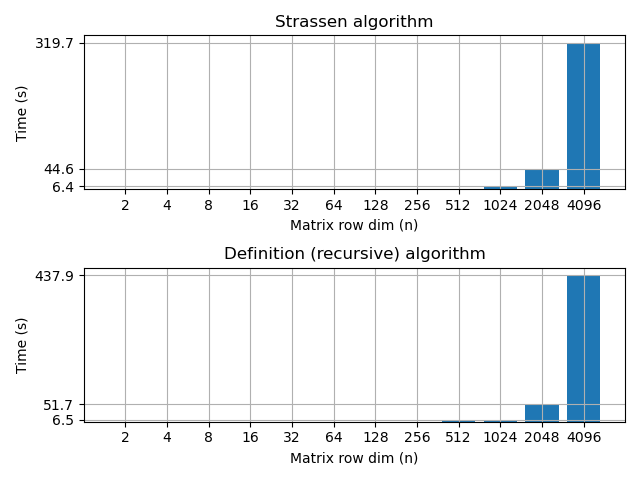
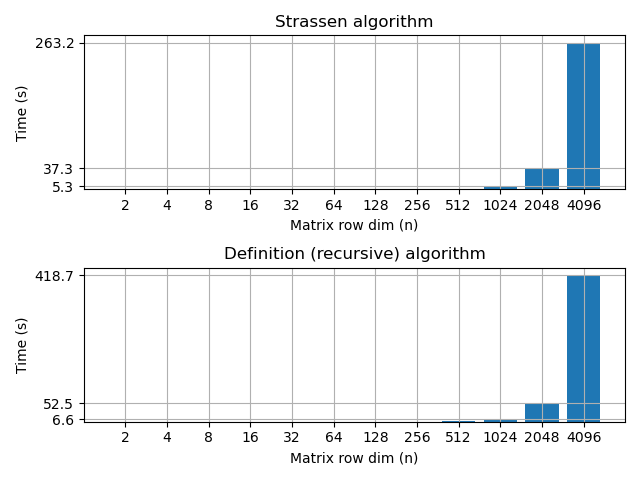
Cleaned up code => better results

diff --git a/strassen_algorithm/matrix_strassen_mul.c b/strassen_algorithm/matrix_strassen_mul.c
@@ -1,7 +1,9 @@
 #include <stdio.h>
 #include <stdlib.h>
 #include <time.h>
+#include <string.h>
 
+// Sub-matrix block.
 struct m_block {
     int col;
     int row;
@@ -10,107 +12,96 @@ struct m_block {
     int* matrix;
 };
 
+// Allocate a matrix.
+struct m_block make_alloc_block(int dim_b) {
+    struct m_block block;
+    block.row = 0;
+    block.col = 0;
+    block.dim_b = block.dim_m = dim_b;
+    block.matrix = (int*) malloc(dim_b * dim_b * sizeof(int));
+    return block;
+}
+
+// Crate a sub-matrix block.
+struct m_block make_block(struct m_block* parent, int row_offset, int col_offset, int dim_b) {
+    struct m_block block;
+    block.matrix = parent->matrix;
+    block.dim_m = parent->dim_m;
+    block.dim_b = dim_b;
+    block.row = parent->row + row_offset;
+    block.col = parent->col + col_offset;
+    return block;
+}
+
 // Iterative sum.
-void sum(struct m_block* a, struct m_block* b, struct m_block* c) {
-    for (int ia = a->row, ib = b->row, ic = c->row; (ia < a->row + a->dim_b) && (ib < b->row + b->dim_b) && (ic < c->row + c->dim_b); ia++, ib++, ic++) {
-        for (int ja = a->col, jb = b->col, jc = c->col; (ja < a->col + a->dim_b) && (jb < b->col + b->dim_b) && (jc < c->col + c->dim_b); ja++, jb++, jc++) {
-            c->matrix[ic * c->dim_m + jc] = a->matrix[ia * a->dim_m + ja] + b->matrix[ib * b->dim_m + jb];
+void sum(struct m_block* restrict a, struct m_block* restrict b, struct m_block* restrict c) {
+    int* pa = &a->matrix[a->row * a->dim_m + a->col];
+    int* pb = &b->matrix[b->row * b->dim_m + b->col];
+    int* pc = &c->matrix[c->row * c->dim_m + c->col];
+    for (int i = 0; i < a->dim_b; ++i) {
+        for (int j = 0; j < a->dim_b; ++j) {
+            *pc = *pa + *pb;
+            ++pa; ++pb; ++pc;
         }
+        pa += a->dim_m - a->dim_b;
+        pb += b->dim_m - b->dim_b;
+        pc += c->dim_m - c->dim_b;
     }
 }
 
 // Iterative sub.
-void sub(struct m_block* a, struct m_block* b, struct m_block* c) {
-    for (int ia = a->row, ib = b->row, ic = c->row; (ia < a->row + a->dim_b) && (ib < b->row + b->dim_b) && (ic < c->row + c->dim_b); ia++, ib++, ic++) {
-        for (int ja = a->col, jb = b->col, jc = c->col; (ja < a->col + a->dim_b) && (jb < b->col + b->dim_b) && (jc < c->col + c->dim_b); ja++, jb++, jc++) {
-            c->matrix[ic * c->dim_m + jc] = a->matrix[ia * a->dim_m + ja] - b->matrix[ib * b->dim_m + jb];
+void sub(struct m_block* restrict a, struct m_block* restrict b, struct m_block* restrict c) {
+    int* pa = &a->matrix[a->row * a->dim_m + a->col];
+    int* pb = &b->matrix[b->row * b->dim_m + b->col];
+    int* pc = &c->matrix[c->row * c->dim_m + c->col];
+    for (int i = 0; i < a->dim_b; ++i) {
+        for (int j = 0; j < a->dim_b; ++j) {
+            *pc = *pa - *pb;
+            ++pa; ++pb; ++pc;
         }
+        pa += a->dim_m - a->dim_b;
+        pb += b->dim_m - b->dim_b;
+        pc += c->dim_m - c->dim_b;
     }
 }
 
 // Recursive multipy matrices C = A * B.
-void smul(struct m_block* A, struct m_block* B, struct m_block* C) {
-    if (A->dim_b == 1 && B->dim_b == 1 && C->dim_b == 1) {
-        C->matrix[C->row * C->dim_m + C->col] = A->matrix[A->row * A->dim_m + A->col] * B->matrix[B->row * B->dim_m + B->col];
+void smul(struct m_block* restrict A, struct m_block* restrict B, struct m_block* restrict C) {
+    if (A->dim_b == 1) {
+        int a_val = A->matrix[A->row * A->dim_m + A->col];
+        int b_val = B->matrix[B->row * B->dim_m + B->col];
+        C->matrix[C->row * C->dim_m + C->col] = a_val * b_val;
         return;
     }
 
-    // Blocks.
-    struct m_block a11, a12, a21, a22;
+    // Blocks size.
+    int half = A->dim_b / 2;
 
-    a11.matrix = A->matrix; a11.dim_m = A->dim_m;
-    a11.dim_b = A->dim_b / 2;
-    a11.row = 0 + A->row; a11.col = 0 + A->col;
+    // Blocks of matrix A.
+    struct m_block a11 = make_block(A, 0,      0,     half);
+    struct m_block a12 = make_block(A, 0,      half,  half);
+    struct m_block a21 = make_block(A, half,   0,     half);
+    struct m_block a22 = make_block(A, half,   half,  half);
 
-    a12.matrix = A->matrix; a12.dim_m = A->dim_m;
-    a12.dim_b = A->dim_b / 2;
-    a12.row = 0 + A->row; a12.col = A->dim_b / 2 + A->col;
+    // Blocks of matrix B.
+    struct m_block b11 = make_block(B, 0,      0,    half);
+    struct m_block b12 = make_block(B, 0,      half, half);
+    struct m_block b21 = make_block(B, half,   0,    half);
+    struct m_block b22 = make_block(B, half,   half, half);
 
-    a21.matrix = A->matrix; a21.dim_m = A->dim_m;
-    a21.dim_b = A->dim_b / 2;
-    a21.row = A->dim_b / 2 + A->row; a21.col = 0 + A->col;
+    // Blocks of matrix C.
+    struct m_block c11 = make_block(C, 0,      0,    half);
+    struct m_block c12 = make_block(C, 0,      half, half);
+    struct m_block c21 = make_block(C, half,   0,    half);
+    struct m_block c22 = make_block(C, half,   half, half);
 
-    a22.matrix = A->matrix; a22.dim_m = A->dim_m;
-    a22.dim_b = A->dim_b / 2;
-    a22.row = A->dim_b / 2 + A->row; a22.col = A->dim_b / 2 + A->col;
+    // Tmp blocks to compute the Strassen's operations.
+    struct m_block a = make_alloc_block(half);
+    struct m_block b = make_alloc_block(half);
+    struct m_block p = make_alloc_block(half);
 
-    struct m_block b11, b12, b21, b22;
-
-    b11.matrix = B->matrix; b11.dim_m = B->dim_m;
-    b11.dim_b = B->dim_b / 2;
-    b11.row = 0 + B->row; b11.col = 0 + B->col;
-
-    b12.matrix = B->matrix; b12.dim_m = B->dim_m;
-    b12.dim_b = B->dim_b / 2;
-    b12.row = 0 + B->row; b12.col = B->dim_b / 2 + B->col;
-
-    b21.matrix = B->matrix; b21.dim_m = B->dim_m;
-    b21.dim_b = B->dim_b / 2;
-    b21.row = B->dim_b / 2 + B->row; b21.col = 0 + B->col;
-
-    b22.matrix = B->matrix; b22.dim_m = B->dim_m;
-    b22.dim_b = B->dim_b / 2;
-    b22.row = B->dim_b / 2 + B->row; b22.col = B->dim_b / 2 + B->col;
-
-    struct m_block c11, c12, c21, c22;
-
-    c11.matrix = C->matrix; c11.dim_m = C->dim_m;
-    c11.dim_b = C->dim_b / 2;
-    c11.row = 0 + C->row; c11.col = 0 + C->col;
-
-    c12.matrix = C->matrix; c12.dim_m = C->dim_m;
-    c12.dim_b = C->dim_b / 2;
-    c12.row = 0 + C->row; c12.col = C->dim_b / 2 + C->col;
-
-    c21.matrix = C->matrix; c21.dim_m = C->dim_m;
-    c21.dim_b = C->dim_b / 2;
-    c21.row = C->dim_b / 2 + C->row; c21.col = 0 + C->col;
-
-    c22.matrix = C->matrix; c22.dim_m = C->dim_m;
-    c22.dim_b = C->dim_b / 2;
-    c22.row = C->dim_b / 2 + C->row; c22.col = C->dim_b / 2 + C->col;
-
-    // Strassen's blocks.
-    struct m_block a;
-    a.dim_b = a.dim_m = a12.dim_b;
-    a.col = a.row = 0;
-    a.matrix = (int*) malloc(a12.dim_b * a12.dim_b * sizeof(int));
-
-    struct m_block b;
-    b.dim_b = b.dim_m = b12.dim_b;
-    b.col = b.row = 0;
-    b.matrix = (int*) malloc(b12.dim_b * b12.dim_b * sizeof(int));
-
-    struct m_block p;
-    p.dim_b = p.dim_m = a.dim_b; p.col = p.row = 0;
-    p.matrix = (int*) malloc((a.dim_b * a.dim_b) * sizeof(int));
-    
     // Clean up C.
-    for (int i = C->row; i < C->row + C->dim_b; i++) {
-        for (int j = C->col; j < C->col + C->dim_b; j++) {
-            C->matrix[i * C->dim_m + j] = 0;
-        }
-    }
+    memset(C->matrix, 0, C->dim_m * C->dim_m * sizeof(int));
 
     // Compute p1 ad sum it to c11.
     sub(&a12, &a22, &a); // a = a12 - a22
@@ -162,44 +153,37 @@ void smul(struct m_block* A, struct m_block* B, struct m_block* C) {
 
 // Execute Strassen algorithm, print CPU time.
 void exec_strassen(const int N) {
-    struct m_block a;
-    a.dim_m = N; a.dim_b = N;
-    a.col = 0; a.row = 0;
-    a.matrix = (int*) malloc((N * N) * sizeof(int));
+    struct m_block a = {
+        0,
+        0,
+        N,
+        N,
+        (int*) malloc((N * N) * sizeof(int))
+    };
 
-    //printf("Matrice A\n");
-    for (int i = 0; i < N; i++) {
-        for (int j = 0; j < N; j++) {
-            a.matrix[i * N + j] = 1;
-            //printf("%d ", a.matrix[i * N + j]);
-        }
-        //printf("\n");
+    struct m_block b = {
+        0,
+        0,
+        N,
+        N,
+        (int*) malloc((N * N) * sizeof(int))
+    };
+
+    // Init matrices A, B with ones.
+    for (int i = 0; i < N * N; i++) {
+        a.matrix[i] = 1;
+        b.matrix[i] = 1;
     }
 
-    struct m_block b;
-    b.dim_m = N; b.dim_b = N;
-    b.col = 0; b.row = 0;
-    b.matrix = (int*) malloc((N * N) *  sizeof(int));
+    struct m_block c = {
+        0,
+        0,
+        N,
+        N,
+        (int*) malloc((N * N) * sizeof(int))
+    };
 
-    //printf("Matrice B\n");
-    for (int i = 0; i < N; i++) {
-        for (int j = 0; j < N; j++) {
-            b.matrix[i * N + j] = 1;
-            //printf("%d ", b.matrix[i][j]);
-        }
-        //printf("\n");
-    }
-
-    struct m_block c;
-    c.dim_m = N; c.dim_b = N;
-    c.col = 0; c.row = 0;
-    c.matrix = (int*) malloc((N * N) * sizeof(int));
-
-    for (int i = 0; i < N; i++) {
-        for (int j = 0; j < N; j++) {
-            c.matrix[i * N + j] = 0;
-        }
-    }
+    // Matrix C is cleaned up in smul.
 
     float start_time = (float)clock() / CLOCKS_PER_SEC;
     smul(&a, &b, &c);
